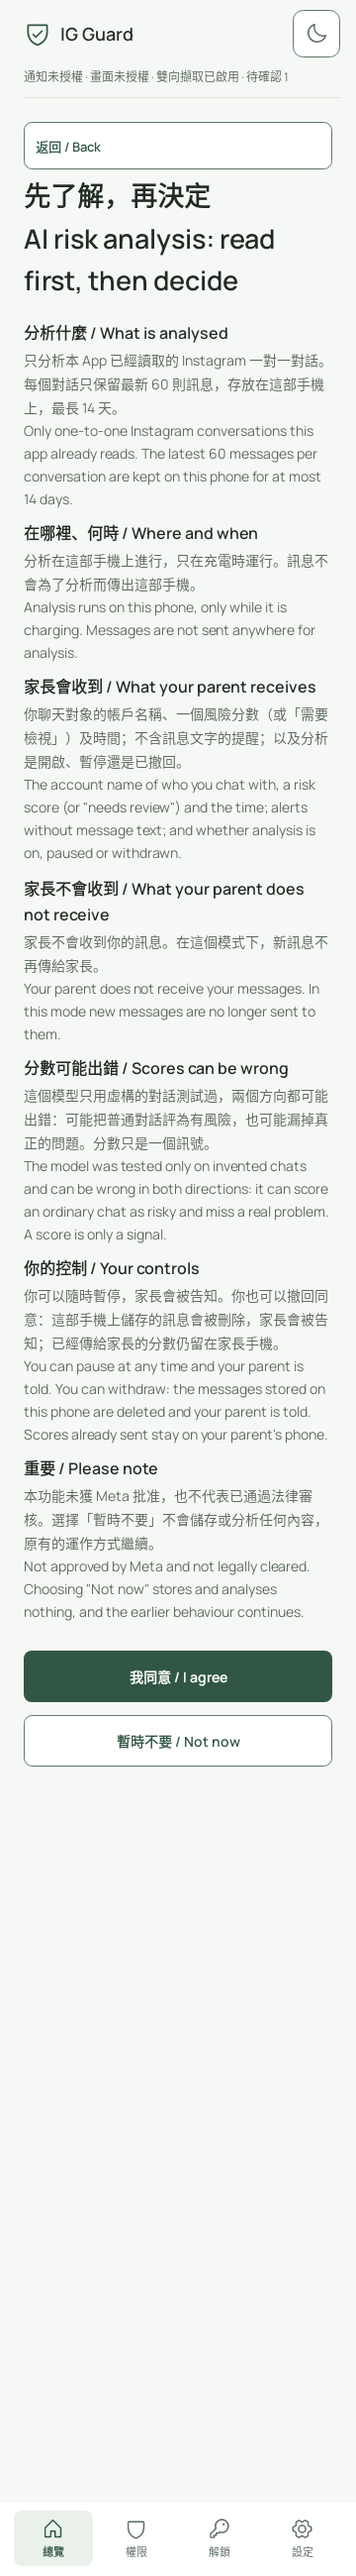
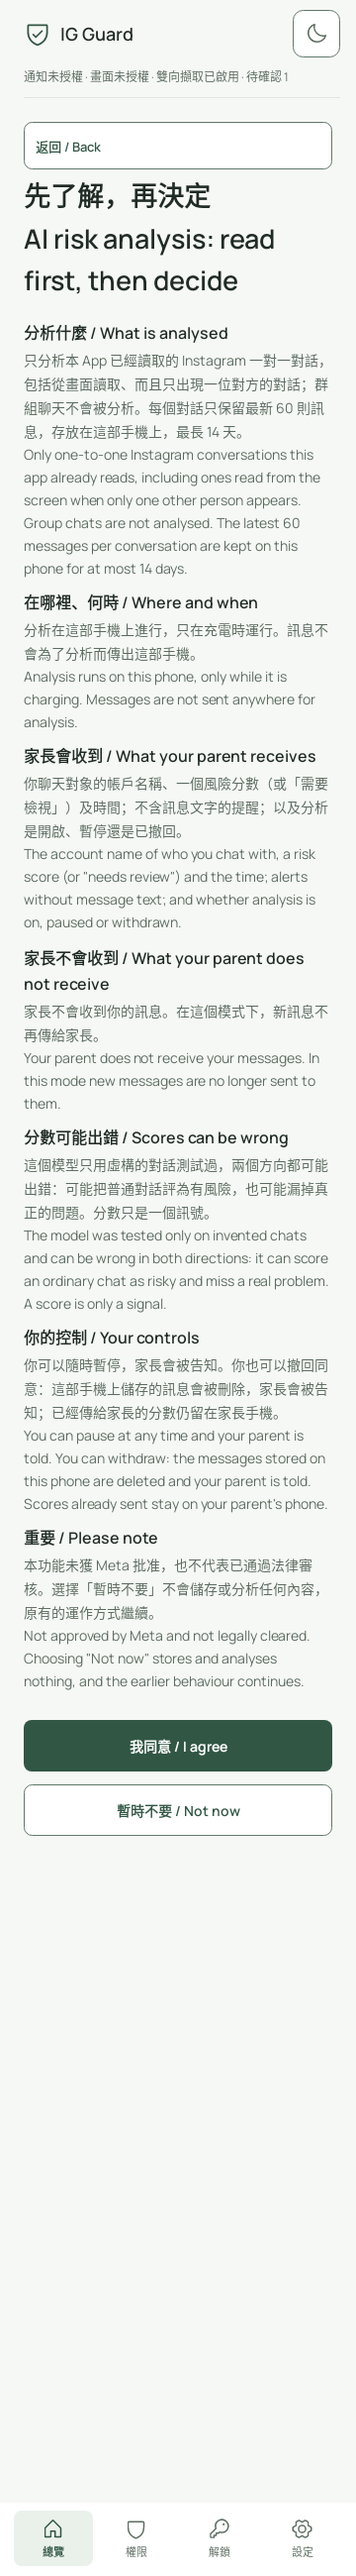
WIP: score two-sided threads and parent password for model import [skip ci]
Claude-Session: https://claude.ai/code/session_011RFszeMfHUrmtqXSrLL2Ni

Changed region(s): [[0.0611, 0.1246, 0.9472, 0.7165]]

diff --git a/docs/superpowers/plans/2026-11-19-scores-only-family-mode.md b/docs/superpowers/plans/2026-11-19-scores-only-family-mode.md
@@ -13,7 +13,7 @@
[1 lines of base64/hex data omitted]
 - In this mode no message text, quote or summary reaches the parent's phone.
 - Nothing is stored or scored before the child accepts; a visible status is always shown; pause works at once and the parent is told.
-- Store limits: latest 60 messages per thread, nothing older than 14 days. One-to-one threads only; threads of unknown kind are not stored or scored and are counted in the report.
+- Store limits: latest 60 messages per thread, nothing older than 14 days. One-to-one threads only: kind `direct`, or kind `unknown` with at most one distinct incoming author (Derek's decision, 19 November 2026, a stated departure from the design's "threads whose kind is unknown are not stored or scored"). Group threads are never stored; an unknown-kind thread that shows a second incoming author is treated as a group, deleted, excluded and counted.
 - A thread is scored on its latest 30 messages; its reported score is the highest seen in the last 14 days.
 - Runs while idle and charging; after 48 hours without a run, charging only.
 - Phones with less than about 8 GB of memory: mode unavailable, and the app says so.
@@ -26,7 +26,7 @@
 1. **Records on the relay.**
    - Parent to child, signed like `capture_policy`: `scores_mode_policy` with `policy_id` and `enabled`.
    - Child to parent, control-wrapped like `capture_ack`: `scores_mode_report` with a `state` object (`policy_id`, `model`: valid, missing, mismatch, unsupported_device (memory or CPU) or engine_unavailable (the analysis library could not be loaded); `consent`: none, accepted or withdrawn; `active` (true only while analysis can actually run, so "agreed but not running" is visible); `paused` and `paused_at_ms`; `last_run_ms`; `scored_count`; `unknown_threads`) and a `conversations` array of `{account_label, score or null, review_reason or null, scored_at_ms}`. Nothing else.
-2. **Account label and thread kind** come from the existing capture record: `conversation_label` and `conversation_kind`. Only kind `direct` is stored. Today most screen captures have kind `unknown`, so they are counted and not scored. This follows the design and is the largest practical limit of the first build; see "Open questions".
+2. **Account label and thread kind** come from the existing capture record: `conversation_label` and `conversation_kind`. Kind `direct` is stored, and so is kind `unknown` while it shows at most one distinct incoming author (Derek's decision of 19 November 2026; a stated departure from the design, which did not store unknown-kind threads). A second distinct incoming author makes an unknown thread a group: its stored messages and results are deleted at once and it is excluded for the 14-day window and counted in `unknown_threads`, which now means conversations not analysed because they look like group chats or their type could not be confirmed. Screen captures record no incoming author at all (see "Open questions"), so a screen thread cannot be told from a group; notification threads can.
 3. **Content-free alerts** in this mode are ordinary `alert` records with the rule category in `reason`, the account label in `sender`, the time, an empty `text` and `"content_free": true` (only alerts whose text the mode removed carry this field; the parent UI uses it to say that the text was withheld); keyword matches and signals carry the category tag only, never the matched phrase.
 4. **After the child withdraws** the phone does not fall back to forwarding text. Alerts stay content-free, the parent sees "withdrawn by your child", and only the parent switching the mode off (with the change-of-mode page on both phones) returns the family to the earlier mode.
 5. **Memory check:** total RAM reported by `ActivityManager.MemoryInfo.totalMem` of at least 7 GB counts as "about 8 GB", because phones sold as 8 GB report slightly less.
@@ -41,7 +41,7 @@ Each task ends with its tests passing in the Robolectric suite (`tests/run_andro
 3. **Child engine.**
    - Model import, verification and state; memory check.
    - Mode state: policy received, child consent receipt (separate from the Terms receipt), paused, withdrawn. `active` only when every condition holds.
-   - Encrypted store with the 60-message and 14-day limits; `direct` threads only; unknown threads counted.
+   - Encrypted store with the 60-message and 14-day limits; `direct` threads, and `unknown` threads with at most one incoming author; groups excluded and counted.
    - In active mode: captured messages go to the store and are not queued for the parent; keyword and unapproved-contact alerts are queued without text.
    - Batch scoring with the fake-able scorer; highest score in 14 days; interrupted thread restarts.
    - Job scheduling: idle and charging; charging only after 48 hours.
@@ -56,7 +56,8 @@ Each task ends with its tests passing in the Robolectric suite (`tests/run_andro
 
 ## Open questions
 
-- **Unknown thread kind.** Screen captures do not record whether a thread is one-to-one, so under the design they are not scored. Without a change to capture (a non-goal), the mode scores only threads seen through notifications, which mostly carry incoming messages. Derek should decide whether to treat unknown-kind screen threads as one-to-one when only one other author appears.
+- **Unknown thread kind. Resolved (Derek, 19 November 2026): treat unknown-kind threads as one-to-one while only one other author appears.** This replaces the design's rule. Limit that remains: the screen reader records no incoming author (incoming bubbles carry an empty `author`, outgoing ones the child's label), so a group read only from the screen shows no second author and is analysed as if it were one-to-one. Only notification records carry an author. The "not analysed" count therefore under-reports groups seen on screen.
+- **Parent password for the model on the child's phone. Resolved: yes (Derek, 19 November 2026).** Importing and removing the model on the child's phone need the parent's password, using the same check as switching the phone's role; cancelling or a wrong password changes nothing.
 - **Terms receipt.** The Terms file is hashed into each consent receipt and existing users are never asked again. The design adds a separate consent page for the child; whether parents must also re-accept changed Terms is a legal question.
 - **Version.** The app version (`4.9-beta.4`) is pinned in three places and is not changed by this work.
 

diff --git a/docs/drafts/2026-11-19-scores-only/privacy-data-flow.md b/docs/drafts/2026-11-19-scores-only/privacy-data-flow.md
@@ -41,7 +41,7 @@ Earlier builds could forward unsent comment/story-reply observations. Retained r
 
 ## Scores-only family mode (optional)
 
-Off by default. The parent switches it on after the child's phone has reported a valid model file; nothing is stored or scored until the child agrees once on the child's phone. Only one-to-one threads are used; group threads and threads of unknown kind are not stored or scored and are counted. The thread kind and account label come from the existing capture record (`conversation_kind`, `conversation_label`); most screen captures currently have kind `unknown`, so many conversations are counted and not scored.
+Off by default. The parent switches it on after the child's phone has reported a valid model file; nothing is stored or scored until the child agrees once on the child's phone. Only one-to-one threads are used: threads of kind `direct`, and threads of kind `unknown` (most screen captures) while they show at most one distinct incoming author. Group threads are never stored. An unknown-kind thread that shows a second incoming author is treated as a group: its stored messages and results are deleted, it is excluded for 14 days (a content-free marker keyed by a blind index) and it is counted. The thread kind, author and account label come from the existing capture record (`conversation_kind`, `author`, `conversation_label`); screen captures record no incoming author, so a group seen only on the screen cannot be told apart.
 
 | Stage | Implementation | Who normally has access |
 | --- | --- | --- |
@@ -50,7 +50,7 @@ Off by default. The parent switches it on after the child's phone has reported a
 | Child's agreement | A separate consent page and receipt on the child's phone, acknowledged to the parent. Nothing is stored or scored before it. | The child's phone; the parent learns agreed or waiting. |
 | Child-side store | Captured one-to-one messages go into an encrypted store using the existing device-bound vault keys: latest 60 per thread, nothing older than 14 days. They are not queued for the parent. | The child's phone and app only. Not the relay, Safe Guard or the parent's phone. |
 | Scoring | On the child's phone while idle and charging (charging only after 48 hours without a run), over the latest 30 messages per thread; the thread's score is the highest in 14 days. | The child's phone. |
-| Report | After each run and on each state change, a `scores_mode_report` goes to the parent: state (model state, agreed/waiting/withdrawn, paused and when, last run, scored count, unknown-thread count) and per conversation the account label, a score or null, a review reason or null, and the time. No text. | Encrypted with the family key; relay handles ciphertext and metadata; the parent's phone decrypts and stores. |
+| Report | After each run and on each state change, a `scores_mode_report` goes to the parent: state (model state, agreed/waiting/withdrawn, paused and when, last run, scored count, count of conversations not analysed because they look like group chats or their type could not be confirmed) and per conversation the account label, a score or null, a review reason or null, and the time. No text. | Encrypted with the family key; relay handles ciphertext and metadata; the parent's phone decrypts and stores. |
 | Alerts | Keyword and unapproved-contact rules run on the child's phone. Alerts carry the rule category, account label and time, with an empty text field and no matched phrase. | As for other alerts. |
 | Parent view | Conversation list with band, score and date; a notification when a conversation first reaches 50 (once per conversation per 14-day window, without the contact's name); a notice that scores are out of date if no report arrives for 72 hours. | The parent's phone, behind the parent's authentication. |
 | Pause, withdraw | Pause stops storing and scoring at once and the parent is told. Withdraw deletes the store and unsent scores and the parent is told. No fallback to forwarding text. | The child's phone; the parent sees the state. |

diff --git a/CHANGELOG.md b/CHANGELOG.md
@@ -5,8 +5,9 @@
 No app version is changed by this entry. Nothing below has run on a physical phone, and the model was tested only on invented chats.
 
 - Add an optional scores-only family mode. The parent switches it on only after the child's phone has reported a valid model file; the child sees a plain-language page and must agree once. Until the child agrees, the earlier behaviour continues unchanged. The child can pause (stops storing and scoring at once) or withdraw (deletes the local store and unsent scores). Turning the mode on again needs agreement again.
-- While the mode is on, the child's phone keeps the latest 60 messages per one-to-one thread for up to 14 days in an encrypted local store, scores each thread on its latest 30 messages while charging and idle (charging only after 48 hours without a run), and sends the parent only an account label, a 0 to 100 score or "needs review", and times. Message text is no longer sent to the parent in this mode. Threads of unknown kind are counted, not stored; group chats are ignored.
+- While the mode is on, the child's phone keeps the latest 60 messages per one-to-one thread for up to 14 days in an encrypted local store, scores each thread on its latest 30 messages while charging and idle (charging only after 48 hours without a run), and sends the parent only an account label, a 0 to 100 score or "needs review", and times. Message text is no longer sent to the parent in this mode. Threads read from the screen (kind unknown) are analysed too while only one other person appears; a thread that shows a second other person is treated as a group, deleted and only counted. Group chats are not analysed. The screen capture records no author for incoming messages, so a group seen only on the screen may be analysed.
 - Keyword and unapproved-contact alerts keep working but carry only the category, the account label and the time, marked as sent without text. After a withdrawal the phone does not go back to forwarding text; only the parent switching the mode off does, and the child is told when that happens.
+- Importing or removing the analysis model on the child's phone needs the parent's password.
 - Add the on-phone scoring engine (llama.cpp, CPU, arm64-v8a) and a hand-imported model file that is refused unless its size and SHA-256 match exactly. Phones with under about 8 GB of memory, or where the library cannot load, report the mode as unavailable.
 - Add parent and child screens: a score page with states for waiting, paused, withdrawn, out of date, model missing or wrong, and scoring; a child status block that is always visible, and a permanent notification line while analysis is on, paused or waiting.
 - The Terms of Service, privacy policy and data-flow drafts for this mode are drafts awaiting review by Derek and a Hong Kong privacy lawyer; the live documents are unchanged. The wording makes no claim of Meta approval or legal clearance.

diff --git a/docs/drafts/2026-11-19-scores-only/terms-of-service.md b/docs/drafts/2026-11-19-scores-only/terms-of-service.md
@@ -87,7 +87,7 @@ Acceptance agrees to the processing below; it neither grants Android permissions
 
 This mode is optional and off by default. A parent switches it on in the parent phone. The switch stays disabled until the child's phone has reported a valid model file. The child must first agree once, on a separate page on the child's phone; until then nothing is stored or analysed. If the child has not agreed, the parent sees "waiting for your child to agree", cannot agree for the child, and the earlier mode keeps running. This agreement is separate from the three confirmations in section 7 and from the Terms receipt in section 4.
 
-**What is analysed.** Only one-to-one Instagram conversations that the app already captures through notifications and screen text. Group chats and conversations of unknown type are not stored or analysed; they are only counted in the report. For many captured screen conversations the app may not be able to tell the type, and these are not analysed.
+**What is analysed.** Only one-to-one Instagram conversations that the app already captures through notifications and screen text. Conversations read from the screen are analysed too when only one other person appears in them. Group chats are not analysed; a conversation that shows a second other person is treated as a group, what was kept is deleted, and it is only counted in the report. The app cannot always tell a group from a one-to-one chat on the screen, so a group may sometimes be analysed.
 
 **Where it runs.** Analysis runs on the child's phone, using a model file (about 1.1 GB) installed by hand. The app checks the file's size and SHA-256 and refuses any other file. It runs while the phone is idle and charging; if no run has happened for 48 hours, charging alone is enough. In this mode no chat text is sent to any server or to the parent's phone. The phone needs about 8 GB of memory; otherwise the mode is unavailable and the app says so.
 

diff --git a/docs/drafts/2026-11-19-scores-only/privacy-policy.md b/docs/drafts/2026-11-19-scores-only/privacy-policy.md
@@ -43,7 +43,7 @@ Older builds could forward unsent comment/story-reply drafts. Those retained rec
 
 This mode is off by default. A parent switches it on in the parent phone, and the switch stays disabled until the child's phone has reported a valid model file. Nothing is stored or analysed until the child agrees once, on a separate page on the child's phone. If the child has not agreed, the parent sees "waiting for your child to agree" and cannot agree for the child; the earlier mode keeps running. IG Guard is independent of Meta and has no Meta approval; this mode uses the existing capture, and official Instagram API and portability integrations are not implemented.
 
-**What is analysed.** One-to-one Instagram conversations that the app already captures through notifications and screen text. Group chats and conversations of unknown type are not stored or analysed; they are counted in the report. The app may not be able to tell the type of many captured screen conversations, and those are not analysed.
+**What is analysed.** One-to-one Instagram conversations that the app already captures through notifications and screen text. Conversations read from the screen are analysed too when only one other person appears in them. Group chats are not analysed. A conversation that shows a second other person is treated as a group: what was kept is deleted and it is only counted in the report. The app cannot always tell a group from a one-to-one chat on the screen, so a group may sometimes be analysed.
 
 **Where analysis runs.** On the child's phone, using a model file (about 1.1 GB) installed by hand. The app checks its size and SHA-256 and refuses any other file. It runs while the phone is idle and charging, or on charging alone if no run has happened for 48 hours. In this mode no chat text is sent to any server or to the parent's phone. The phone needs about 8 GB of memory; otherwise the mode is unavailable.
 

diff --git a/docs/local-risk-scoring.md b/docs/local-risk-scoring.md
@@ -23,7 +23,7 @@ Today the child's phone keeps no readable chats: it queues encrypted records for
 - **Buffer.** When risk scoring is on, each captured message (full two-way capture mode only) is also written to an encrypted table on the child's phone: conversation key, time, order, direction and text. Encryption is the same `LocalVault` field sealing the parent archive uses.
 - **Limits.** At most the newest 90 messages per conversation (three windows) and at most 14 days. Older rows are deleted. The buffer is wiped when scoring is turned off, the model file is removed, collection is withdrawn, the role changes, the family key rotates or the phone is reset remotely.
 - **On when.** Risk scoring is on only if all are true: consent accepted, role is child, collection allowed, full capture enabled, the verified model file is installed, and the scoring switch is on. The switch and the model import sit behind the parent password on the child's phone.
-- **Which threads.** One-to-one only. A conversation marked `group`, or one with more than one distinct incoming author, is not scored. Screen captures often have kind `unknown`; those are treated as one-to-one unless the author rule says otherwise. Messages with direction `unknown` are left out of the prompt.
+- **Which threads.** One-to-one only. A conversation marked `group`, or one with more than one distinct incoming author, is not scored. Screen captures often have kind `unknown`; those are treated as one-to-one unless a second distinct incoming author appears (Derek's decision, 19 November 2026; see the plan). Messages with direction `unknown` are left out of the prompt.
 - **Speakers.** `outgoing` is `child`, `incoming` is `other`.
 
 ## Scoring contract

diff --git a/docs/drafts/2026-11-19-scores-only/CHANGES.md b/docs/drafts/2026-11-19-scores-only/CHANGES.md
@@ -81,7 +81,7 @@ A change is needed, so a draft was written. The live document covers only the pa
 - The terms revision string, and removal of the banner and drafting note before anything is bundled (the banner would otherwise change the hash).
 - The 8 GB wording: plan decision 5 treats 7 GB or more reported memory as "about 8 GB". The drafts say "about 8 GB".
 - Plan decision 6 (notification once per conversation per 14 days, no contact name) appears only in the data-flow draft.
-- Most screen captures have kind `unknown` today, so under the design many conversations are not scored (plan, open question 1). The drafts say so in plain words; if Derek changes that rule the text must change.
+- Derek decided on 19 November 2026 that unknown-kind (mostly screen) threads are analysed while only one other person appears; the drafts now say so, and say that a group seen only on the screen may be analysed because the screen capture records no incoming author.
 - Version: the plan says 4.9-beta.4 is not changed; the drafts keep that.
 
 ## 8. Things in the live documents that were already inaccurate before this feature
